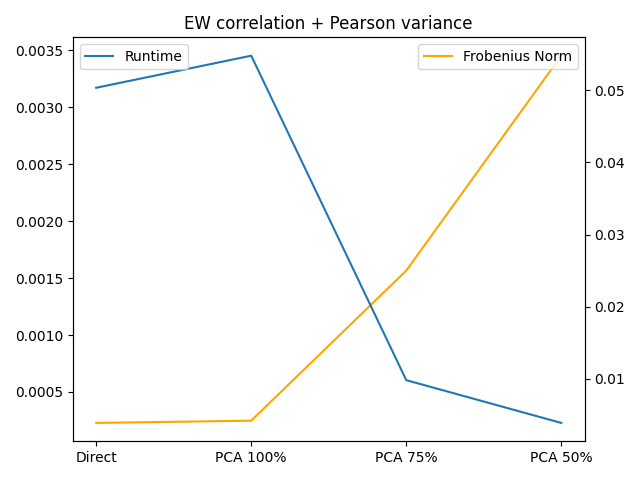
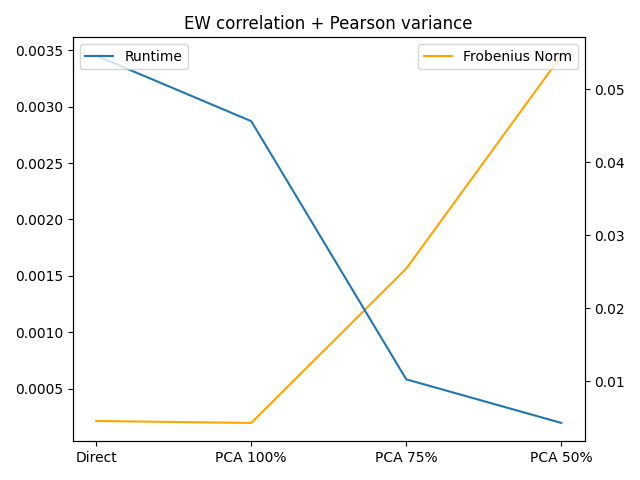
update before week05

diff --git a/Week03/prob2_PSD_Chol.py b/Week03/prob2_PSD_Chol.py
@@ -5,12 +5,12 @@ import matplotlib.pyplot as plt
 
 # Cholesky that assumes PSD matrix
 def chol_psd(a):
-    m = a.shape[0]
-    root = np.zeros([m, m])
-    for j in range(m):
+    n = a.shape[0]
+    root = np.zeros([n, n])
+    for j in range(n):
         s = 0.0
         if j > 0:
-            s = root[j, :j-1].T @ root[j, :j-1]
+            s = root[j, :j].T @ root[j, :j]
 
         temp = a[j, j] - s
         if -1e-8 <= temp <= 0:
@@ -18,11 +18,11 @@ def chol_psd(a):
         root[j, j] = np.sqrt(temp)
 
         if abs(root[j, j]) <= 1e-6:
-            root[j, j+1:m] = 0.0
+            root[j, j+1:] = 0.0
         else:
             ir = 1 / (root[j, j]) # avoid denominator 0
-            for i in range(j+1, m):
-                s = root[i, :j-1].T @ root[j, :j-1]
+            for i in range(j+1, n):
+                s = root[i, :j].T @ root[j, :j]
                 root[i, j] = (a[i, j] - s) * ir
     return root
 
@@ -108,6 +108,26 @@ def get_nonpsd(n):
     sigma[1, 0] = 0.7357
     return sigma
 
+def get_psd(n):
+    sigma = np.zeros([n, n]) + 0.9
+    for i in range(n):
+        sigma[i, i] = 1.0
+    return sigma
+
+def is_PSD(a):
+    """Decide whether a covariance matrix is PSD, which cannot be used by Cholesky method
+
+    Args:
+        a (np.array): matrix
+
+    Returns:
+        bool: PSD return True; otherwise return False
+    """
+    if np.linalg.eigh(a)[0][0] >= -1e-8:
+        return True
+    else:
+        return False
+
 def compare_near_higham(n):
     sigma = get_nonpsd(n)
     s1 = time.time()
@@ -127,8 +147,8 @@ def compare_near_higham(n):
 
 if __name__ == '__main__':
 
-    sigma = get_nonpsd(5)
-
+    sigma = get_psd(5)
+    print(is_PSD(sigma))
     # cholesky algorithm test using a slightly non-psd correlation matrix that is 5x5
     print("Test Cholesky Algorithm using a slightly non-psd correlation matrix that is 5x5")
     print("This is the given matrix A")
@@ -144,6 +164,7 @@ if __name__ == '__main__':
     print(a)
     print()
 
+    sigma = get_nonpsd(5)
     # near psd test using a non-psd correlation matrix that is 5x5
     print("Test Near PSD Algorithm using a non-psd correlation matrix that is 5x5")
     print("This is the given matrix C")

diff --git a/RiskMgmt/Simulation.py b/RiskMgmt/Simulation.py
@@ -12,30 +12,26 @@ def chol_psd(a):
         np.array: Cholesky root
     """
     n = a.shape[0]
-    root = np.zeros((n,n))
-    
+    root = np.zeros([n, n])
     for j in range(n):
-        s = 0
+        s = 0.0
         if j > 0:
-            s = a[j, :j].T @ a[j, :j]
+            s = root[j, :j].T @ root[j, :j]
 
         temp = a[j, j] - s
-        if temp <= 0 and temp >= -1e-8:
-            temp = 0
-        root[j,j] = np.sqrt(temp)
-        
-        if root[j,j] == 0:
-            root[j,(j+1):] = 0
-        else:
-            ir = 1 / root[j,j]
-            for i in range(j+1, n):
+        if -1e-8 <= temp <= 0:
+            temp = 0.0
+        root[j, j] = np.sqrt(temp)
 
-                if j ==0:
-                    s = 0
-                else:
-                    s = a[i, :j].T @ a[j, :j]
-                root[i,j] = (a[i,j] - s) * ir
+        if abs(root[j, j]) <= 1e-6:
+            root[j, j+1:] = 0.0
+        else:
+            ir = 1 / (root[j, j]) # avoid denominator 0
+            for i in range(j+1, n):
+                s = root[i, :j].T @ root[j, :j]
+                root[i, j] = (a[i, j] - s) * ir
     return root
+
 
 def simulate_direct(cov, nsim):
     """Direct matrix simulation
@@ -50,7 +46,7 @@ def simulate_direct(cov, nsim):
     m = cov.shape[0]
     root = chol_psd(cov)
     z = np.random.normal(size=(m, nsim)) 
-    z = (root @ z).T
+    z = (root @ z)
     # z = np.random.multivariate_normal(np.zeros(m), cov, nsim).T
     return z
 

diff --git a/RiskMgmt/Options.py b/RiskMgmt/Options.py
@@ -37,7 +37,7 @@ class Option:
         d2 = (np.log(self.S0 / self.K) + (b - 0.5 * sigma ** 2) * T) / (sigma * np.sqrt(T))
         if self.type == 'call':
             value = self.S0 * np.exp((b - r) * T) * st.norm.cdf(d1, 0, 1) - self.K * np.exp(-r * T) * st.norm.cdf(d2, 0, 1)
-        elif self.type == 'put':
+        else:
             value = self.K * np.exp(-r * T) * st.norm.cdf(-d2, 0, 1) - self.S0 * np.exp((b - r) * T) * st.norm.cdf(-d1, 0, 1)
         return value
     

diff --git a/Week05/prob2_test_library.py b/Week05/prob2_test_library.py
@@ -48,9 +48,9 @@ def test_simulation():
     s_direct = Simulation.simulate_direct(cov_P, nsim)
     s_pca = Simulation.simulate_pca(np.array(cov_P), nsim, 0.75)
 
-    cov_direct = np.cov(s_direct.T)
+    cov_direct = np.cov(s_direct)
     diff_direct = norm(cov_direct - cov_P, 'fro')
-    cov_pca = np.cov(s_pca.T)
+    cov_pca = np.cov(s_pca)
     diff_pca = norm(cov_pca - cov_P, 'fro')
 
     print("norm of direct simulation: ", diff_direct)

diff --git a/RiskMgmt/NonPSDFix.py b/RiskMgmt/NonPSDFix.py
@@ -117,7 +117,7 @@ def get_psd(n):
     """
     sigma = np.zeros([n, n]) + 1
     for i in range(n):
-        sigma[i, i] = 2
+        sigma[i, i] = 0.9
     return sigma
 
 def is_PSD(a):
